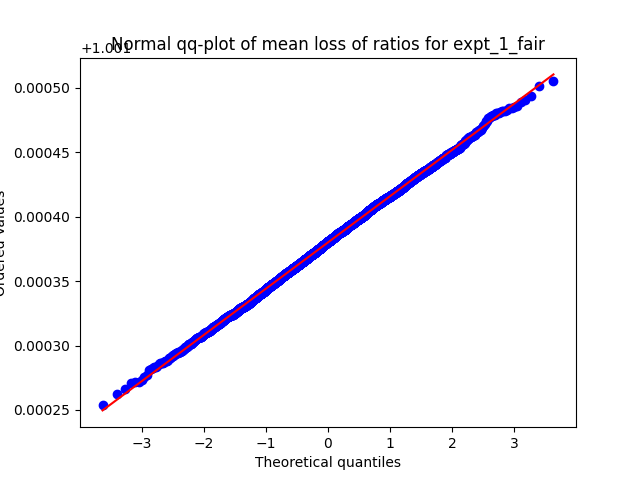
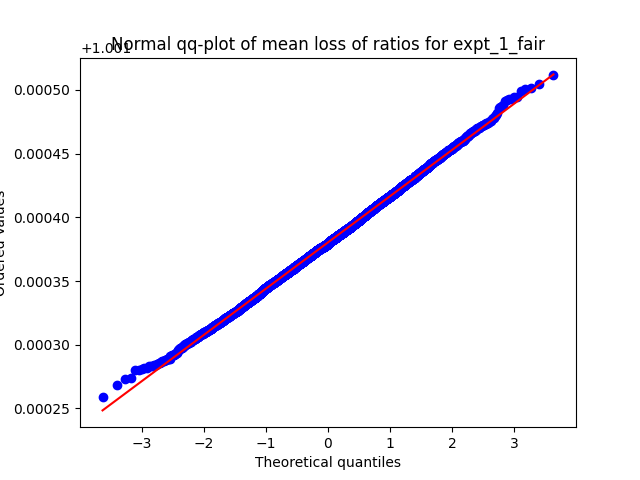
modified:   myapp2/__pycache__/utils.cpython-37.pyc modified:   myapp2/output/perturbed-mean-entropy-hist_1.png modified:   myapp2/output/perturbed-mean-entropy-hist_1_fair.png modified:   myapp2/output/perturbed-mean-entropy-qqplot_1.png modified:   myapp2/output/perturbed-mean-entropy-qqplot_1_fai

diff --git a/myapproach/adversarial_sample_fair.py b/myapproach/adversarial_sample_fair.py
@@ -63,13 +63,14 @@ def sample_perturbation(data_point, regularizer = 1e0, learning_rate = 5e-3, num
         with tf.GradientTape() as g:
             g.watch(x)
             prob = graph(tf.matmul(x, unprotected_directions))
-            loss = utils.EntropyLoss(y, prob)
+            perturb = tf.matmul(x-x_start, unprotected_directions)
+            loss = utils.EntropyLoss(y, prob) - regularizer * tf.norm(perturb)
 
         gradient = g.gradient(loss, x)
-        x = x + learning_rate * (gradient - tf.matmul(gradient, unprotected_directions)) 
+        x = x + learning_rate * gradient#(gradient - tf.matmul(gradient, unprotected_directions)) 
 
     return_loss = utils.EntropyLoss(y, graph(tf.matmul(x, unprotected_directions)))\
-         - utils.EntropyLoss(y, graph(tf.matmul(x_start, unprotected_directions)))
+         / utils.EntropyLoss(y, graph(tf.matmul(x_start, unprotected_directions)))
     
     return return_loss.numpy()
 

diff --git a/myapproach/adversarial_sample.py b/myapproach/adversarial_sample.py
@@ -63,12 +63,13 @@ def sample_perturbation(data_point, regularizer = 1e0, learning_rate = 5e-3, num
         with tf.GradientTape() as g:
             g.watch(x)
             prob = graph(x)
-            loss = utils.EntropyLoss(y, prob)
+            perturb = tf.matmul(x-x_start, unprotected_directions)
+            loss = utils.EntropyLoss(y, prob) - regularizer * tf.norm(perturb)
 
         gradient = g.gradient(loss, x)
-        x = x + learning_rate * (gradient - tf.matmul(gradient, unprotected_directions)) 
+        x = x + learning_rate * gradient#(gradient - tf.matmul(gradient, unprotected_directions)) 
 
-    return_loss = utils.EntropyLoss(y, graph(x)) - utils.EntropyLoss(y, graph(x_start))
+    return_loss = utils.EntropyLoss(y, graph(x)) / utils.EntropyLoss(y, graph(x_start))
     
     return return_loss.numpy()
 
